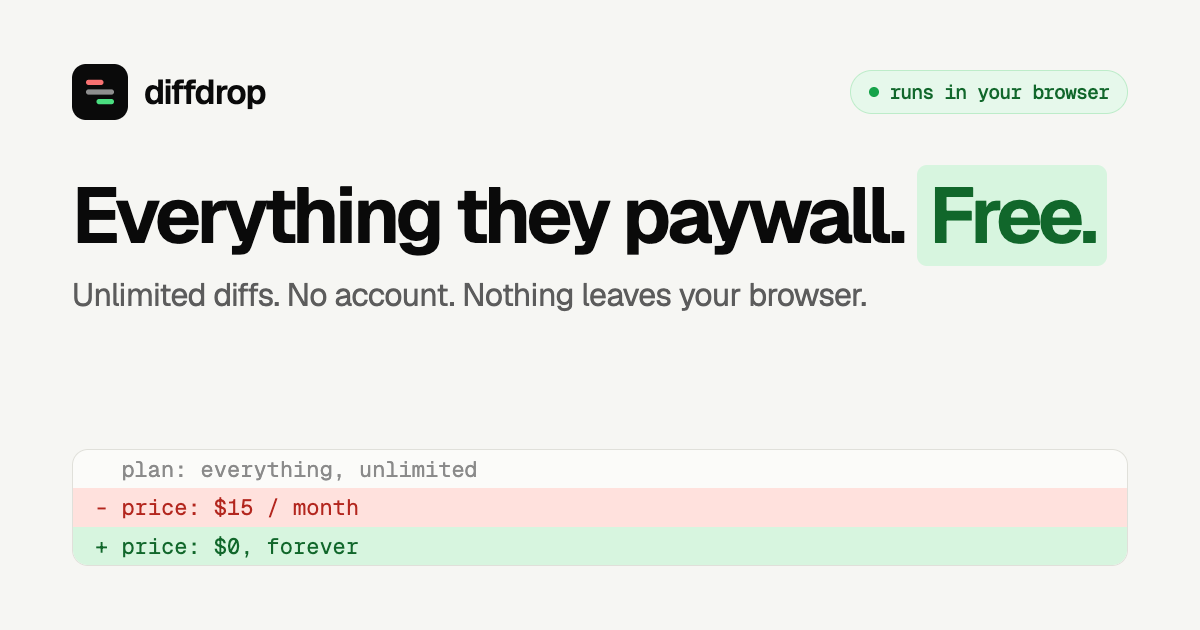
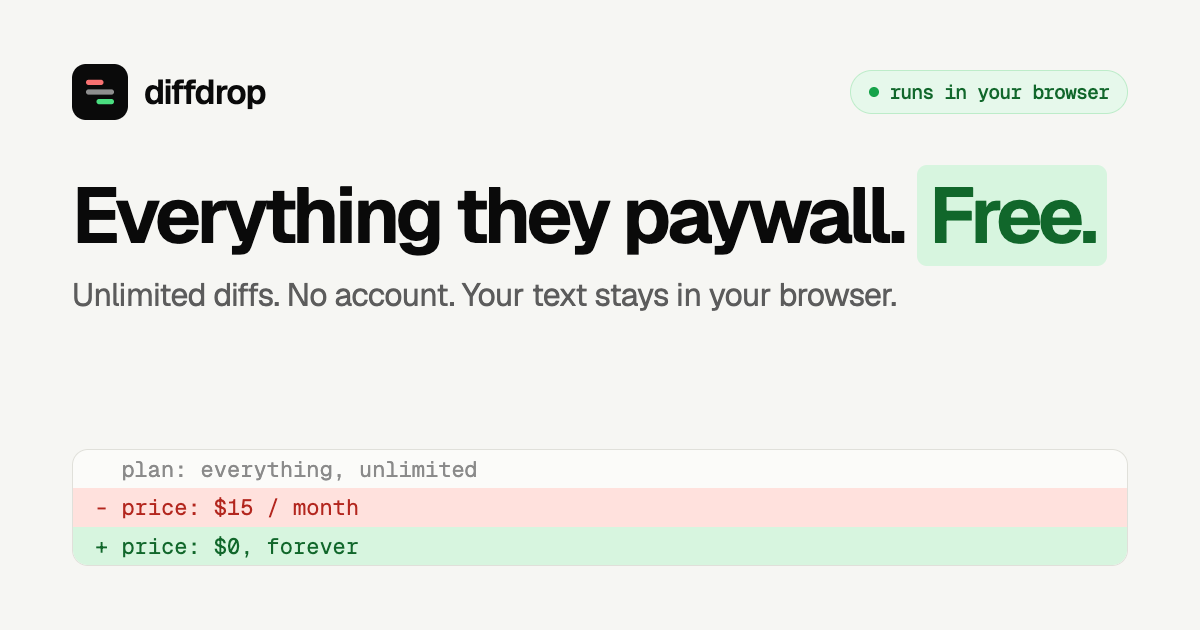
Update copy: "your text stays in your browser", new meta description
The meta and social descriptions now read "Compare text, code and JSON side by
side. Free, open source, unlimited, no account. Your text never leaves your
browser." Hero, header tooltip, JSON page and preview card say "your text
stays in your browser" instead of "0 network requests" / "nothing leaves
your browser". Drop the diffdrop.me references.

Changed region(s): [[0.37, 0.4524, 0.74, 0.5127]]

diff --git a/index.html b/index.html
@@ -6,7 +6,7 @@
     <title>diffdrop - free diff checker, runs in your browser</title>
     <meta
       name="description"
-      content="Compare two texts or files online for free. diffdrop highlights every change line by line and word by word, entirely in your browser: unlimited use, no account, nothing uploaded."
+      content="Compare text, code and JSON side by side. Free, open source, unlimited, no account. Your text never leaves your browser."
     />
     <meta name="color-scheme" content="light dark" />
     <meta name="theme-color" media="(prefers-color-scheme: light)" content="#ffffff" />
@@ -16,7 +16,7 @@
     <link rel="canonical" href="__SITE_URL__/" />
     <meta property="og:site_name" content="diffdrop" />
     <meta property="og:title" content="diffdrop - free diff checker, runs in your browser" />
-    <meta property="og:description" content="Everything they paywall. Free. Nothing leaves your browser." />
+    <meta property="og:description" content="Compare text, code and JSON side by side. Free, open source, unlimited, no account. Your text never leaves your browser." />
     <meta property="og:url" content="__SITE_URL__/" />
     <meta property="og:type" content="website" />
     <meta property="og:image" content="__SITE_URL__/og.png" />
@@ -25,7 +25,7 @@
     <meta property="og:image:alt" content="diffdrop: Everything they paywall. Free." />
     <meta name="twitter:card" content="summary_large_image" />
     <meta name="twitter:title" content="diffdrop - free diff checker, runs in your browser" />
-    <meta name="twitter:description" content="Everything they paywall. Free. Nothing leaves your browser." />
+    <meta name="twitter:description" content="Compare text, code and JSON side by side. Free, open source, unlimited, no account. Your text never leaves your browser." />
     <meta name="twitter:image" content="__SITE_URL__/og.png" />
     <link
       rel="icon"

diff --git a/json-diff/index.html b/json-diff/index.html
@@ -15,7 +15,7 @@
     <link rel="canonical" href="__SITE_URL__/json-diff/" />
     <meta property="og:site_name" content="diffdrop" />
     <meta property="og:title" content="JSON diff - compare two JSON files online, free | diffdrop" />
-    <meta property="og:description" content="See every changed key and value. Format and sort keys in one click. Nothing leaves your browser." />
+    <meta property="og:description" content="See every changed key and value. Format and sort keys in one click. Your text stays in your browser." />
     <meta property="og:url" content="__SITE_URL__/json-diff/" />
     <meta property="og:type" content="website" />
     <meta property="og:image" content="__SITE_URL__/og.png" />
@@ -24,7 +24,7 @@
     <meta property="og:image:alt" content="diffdrop: Everything they paywall. Free." />
     <meta name="twitter:card" content="summary_large_image" />
     <meta name="twitter:title" content="JSON diff - compare two JSON files online, free | diffdrop" />
-    <meta name="twitter:description" content="See every changed key and value. Format and sort keys in one click. Nothing leaves your browser." />
+    <meta name="twitter:description" content="See every changed key and value. Format and sort keys in one click. Your text stays in your browser." />
     <meta name="twitter:image" content="__SITE_URL__/og.png" />
     <link
       rel="icon"

diff --git a/src/components/Landing.tsx b/src/components/Landing.tsx
@@ -57,7 +57,7 @@ export const Hero: React.FC<{ variant: Variant; onTryExample: () => void }> = ({
         </span>
       </h1>
       <p className="mt-4 text-[clamp(20px,2.6vw,28px)] font-medium tracking-[-0.02em] text-muted-foreground">
-        Nothing leaves your browser.
+        Your text stays in your browser.
       </p>
 
       <p className="mt-6 max-w-[52ch] text-[16px] text-muted-foreground">
@@ -76,7 +76,7 @@ export const Hero: React.FC<{ variant: Variant; onTryExample: () => void }> = ({
       </div>
 
       <ul className="mt-10 flex flex-wrap justify-center gap-x-6 gap-y-2 font-mono text-[12.5px] text-muted-foreground">
-        {['unlimited', 'no account', 'works offline', '0 network requests'].map((t) => (
+        {['unlimited', 'no account', 'works offline', 'your text stays in your browser'].map((t) => (
           <li key={t} className="inline-flex items-center gap-1.5">
             <Check className="size-3.5 text-add" aria-hidden="true" />
             {t}

diff --git a/src/site.ts b/src/site.ts
@@ -1,6 +1,6 @@
 /**
- * Where the site lives and which pages it has. Change SITE_URL when the domain
- * moves (e.g. to https://diffdrop.me): canonical links, social cards,
+ * Where the site lives and which pages it has. Change SITE_URL if the site
+ * moves to another domain: canonical links, social cards,
  * robots.txt and sitemap.xml all follow it at build time.
  */
 export const SITE_URL = 'https://diffdrop.anshx12.workers.dev';

diff --git a/src/components/SiteHeader.tsx b/src/components/SiteHeader.tsx
@@ -72,7 +72,7 @@ const SiteHeader: React.FC<SiteHeaderProps> = ({ theme, onThemeChange }) => {
             </Badge>
           </TooltipTrigger>
           <TooltipContent className="max-w-60 text-center">
-            Your text never leaves this tab. The page is blocked from making network requests.
+            Your text never leaves this tab: no uploads, no accounts.
           </TooltipContent>
         </Tooltip>
 

diff --git a/scripts/og-image.html b/scripts/og-image.html
@@ -29,7 +29,7 @@
     <span class="pill"><i></i>runs in your browser</span>
   </div>
   <h1>Everything they paywall. <span>Free.</span></h1>
-  <p>Unlimited diffs. No account. Nothing leaves your browser.</p>
+  <p>Unlimited diffs. No account. Your text stays in your browser.</p>
   <div class="diff">
     <div class="ctx">  plan: everything, unlimited</div>
     <div class="del">- price: $15 / month</div>

diff --git a/README.md b/README.md
@@ -1,9 +1,10 @@
 # diffdrop
 
-Everything they paywall. Free. Nothing leaves your browser.
+Everything they paywall. Free. Your text stays in your browser.
 
 diffdrop is a diff checker that runs entirely in your browser: unlimited use,
-no account, nothing uploaded. It lives at [diffdrop.me](https://diffdrop.me).
+no account, nothing uploaded. It lives at
+[diffdrop.anshx12.workers.dev](https://diffdrop.anshx12.workers.dev).
 
 ## Features
 
